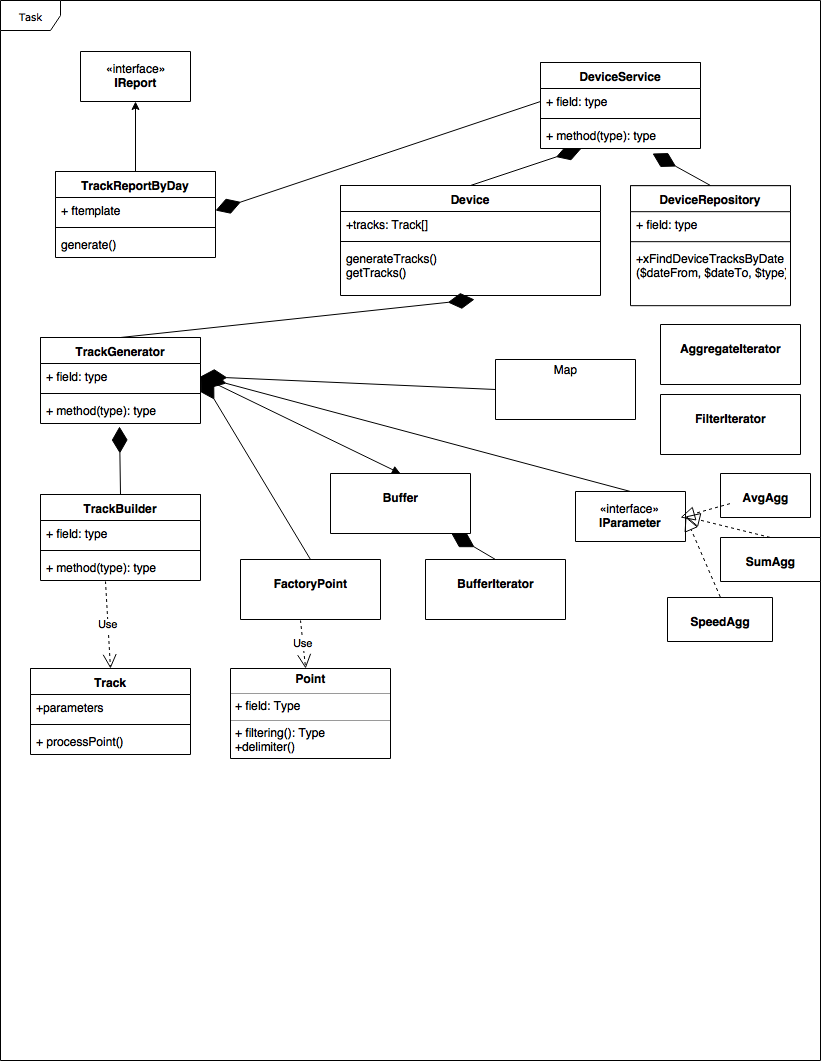
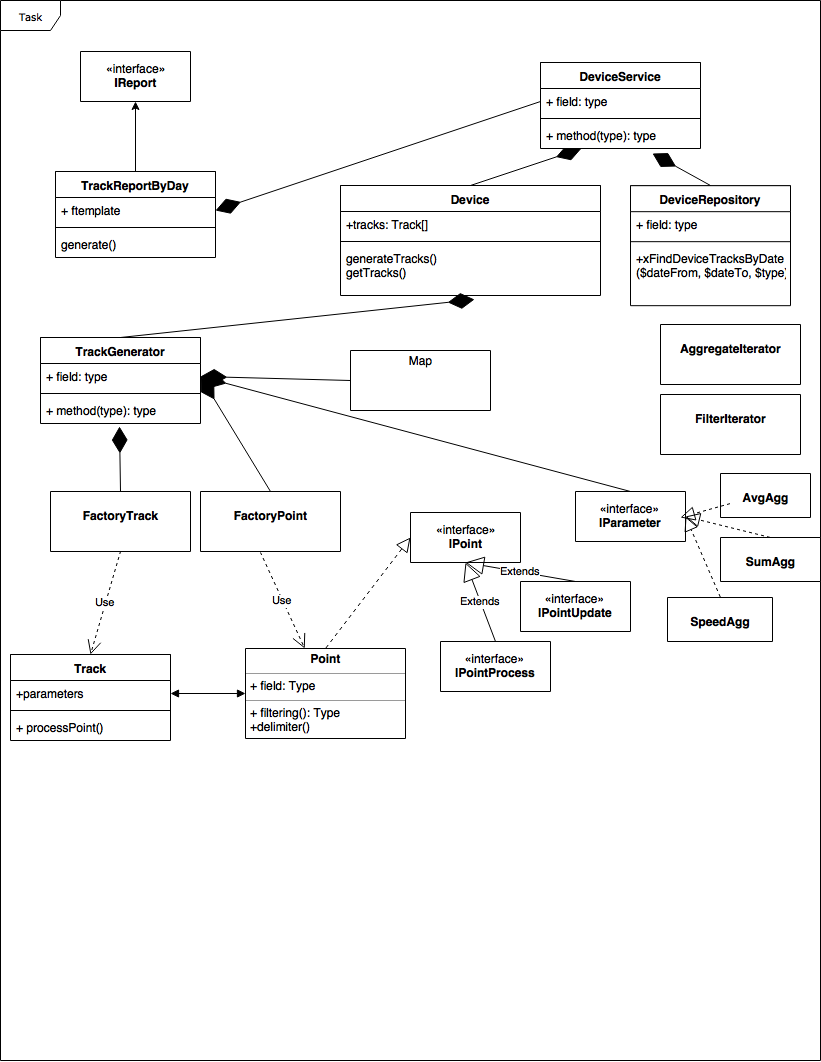
update

diff --git a/app/src/Reports/Library/Classes/Domain/Model/TrackGenerator.php b/app/src/Reports/Library/Classes/Domain/Model/TrackGenerator.php
@@ -3,36 +3,38 @@
 namespace App\Reports\Library\Classes\Domain\Model;
 
 use App\Reports\Library\Classes\Domain\Model\Generic\Point\IPoint;
+use App\Reports\Library\Classes\Factory\{Point as FactoryPoint, Track as FactoryTrack};
 use Generator;
 
 
 
-class TrackGenerator  implements \IteratorAggregate //implements IProcess
+final class TrackGenerator  implements \IteratorAggregate //implements IProcess
 {
    private $current;
    private $previous;
    private $track;
    private $tracks = [];
    private $factoryPoint;
+   private $factoryTrack; 
    private $lastPointFromBuffer;
    const MINLEGTH = 2; //to env  track config or validator
 
    
-   public function __construct($factoryPoint, $trackBuilder)//$config
+   public function __construct(FactoryPoint $factoryPoint, FactoryTrack $factoryTrack)//$config
    {
       $this->factoryPoint = $factoryPoint;
-      $this->trackBuilder = $trackBuilder;
+      $this->factoryTrack = $factoryTrack;
    }
      
 
 
 
-   public function completeTrack(IPoint $point, $end)
+   public function completeTrack(IPoint $point, bool $end)
    {
       if ($this->isCompleteTrack($point, $end)) { //count
           $this->track->updateOnEnd($point);
           $this->addTrack();
-          $this->track = $this->trackBuilder->newInstance();
+          $this->track = $this->factoryTrack->factory();
           $this->track->processPoint($point);
       }    
    }
@@ -46,7 +48,7 @@ class TrackGenerator  implements \IteratorAggregate //implements IProcess
    }
 
 
-   public function isCompleteTrack(IPoint $point, $end)
+   public function isCompleteTrack(IPoint $point, bool $end)
    {   //track validator
        return ($end && $this->isMinLength() || $this->isEndTrack($point) && $this->isMinLength());
    }
@@ -82,7 +84,7 @@ class TrackGenerator  implements \IteratorAggregate //implements IProcess
    public function beginTrack()
    {
       if ($this->isFirstTrack()) {
-        $this->track = $this->trackBuilder->newInstance();
+        $this->track = $this->factoryTrack->factory();
         return true;
       }
       return false;
@@ -91,9 +93,9 @@ class TrackGenerator  implements \IteratorAggregate //implements IProcess
 
 
 
-   private function setCurrentPoint($delimiter) 
+   private function setCurrentPoint(IPoint $point) 
    {
-      $this->current = $delimiter; //record_device_state
+      $this->current = $point; //record_device_state
    }
 
 

diff --git a/app/index.php b/app/index.php
@@ -6,7 +6,7 @@ use App\Reports\Library\Classes\Domain\Repository\Device as DeviceRepository;
 use App\Reports\Library\Classes\Domain\Model\{Device as DeviceModel, Point, TrackGenerator};
 use App\Reports\Library\Classes\Config\Config as TrackConfig;
 use App\Reports\Library\Classes\Helpers\Arrays\ArrayToObject;
-use App\Reports\Library\Classes\Factory\{FilterDictionary, AggregateDictionary, Point as FactoryPoint, TrackBuilder};
+use App\Reports\Library\Classes\Factory\{FilterDictionary, AggregateDictionary, Point as FactoryPoint, Track as FactoryTrack};
 
 
 // Manualy bez DI
@@ -35,7 +35,7 @@ $repository = new DeviceRepository($conn);
 $xRecords = $repository->xFindDeviceTracksByDate($deviceId, $datefrom, $dateTo);
 $parameters = [];
 
-$trackGen = new TrackGenerator(new FactoryPoint($oa, $filterDictionary, $aggDictionary), new TrackBuilder());
+$trackGen = new TrackGenerator(new FactoryPoint($oa, $filterDictionary, $aggDictionary), new FactoryTrack());
 $device = new DeviceModel($deviceId, $xRecords, $trackGen);
 $device->generateTracks();
 

diff --git a/app/src/Reports/Library/Classes/Domain/Repository/Device.php b/app/src/Reports/Library/Classes/Domain/Repository/Device.php
@@ -17,7 +17,7 @@ class Device implements IDeviceRepository
 
 
 
-    public function __construct($db)
+    public function __construct(\PDO $db)
     {
         $this->db = $db;
     }
@@ -25,7 +25,7 @@ class Device implements IDeviceRepository
 
 
 
-    public function xFindDeviceTracksByDate($deviceId, $dateFrom, $dateTo) 
+    public function xFindDeviceTracksByDate(int $deviceId, string $dateFrom,  string $dateTo) 
     {
         $query = 'SELECT device_id, record_timestamp as start_date, record_timestamp as end_date, 
                          record_device_state, record_can_speed, record_calc_distance, 
@@ -48,7 +48,7 @@ class Device implements IDeviceRepository
 
 
 
-    public function xFindDeviceByDay($deviceId, $day)
+    public function xFindDeviceByDay(int $deviceId, string $day)
     {
         $query = 'SELECT device_id, record_timestamp as start_date, record_timestamp as end_date, 
                          record_device_state, record_can_speed, record_calc_distance, 

diff --git a/app/src/Reports/Library/Classes/Repository/Device/IDeviceRepository.php b/app/src/Reports/Library/Classes/Repository/Device/IDeviceRepository.php
@@ -12,10 +12,10 @@ interface IDeviceRepository extends IRepository
 
 
 
-    public function xFindDeviceTracksByDate($deviceId, $dateFrom, $dateTo);
+    public function xFindDeviceTracksByDate(int $deviceId, string $dateFrom, string $dateTo);
 
 
 
 
-    public function xFindDeviceByDay($deviceId, $day);
+    public function xFindDeviceByDay(int $deviceId, string $day);
 }

diff --git a/app/src/Reports/Library/Classes/Factory/Track.php b/app/src/Reports/Library/Classes/Factory/Track.php
@@ -1,0 +1,19 @@
+<?php
+
+namespace App\Reports\Library\Classes\Factory;
+
+use App\Reports\Library\Classes\Domain\Model\Track as TrackModel;
+
+
+
+
+final class Track
+{
+
+
+
+    public function factory()
+    {
+        return new TrackModel();
+    }
+}
